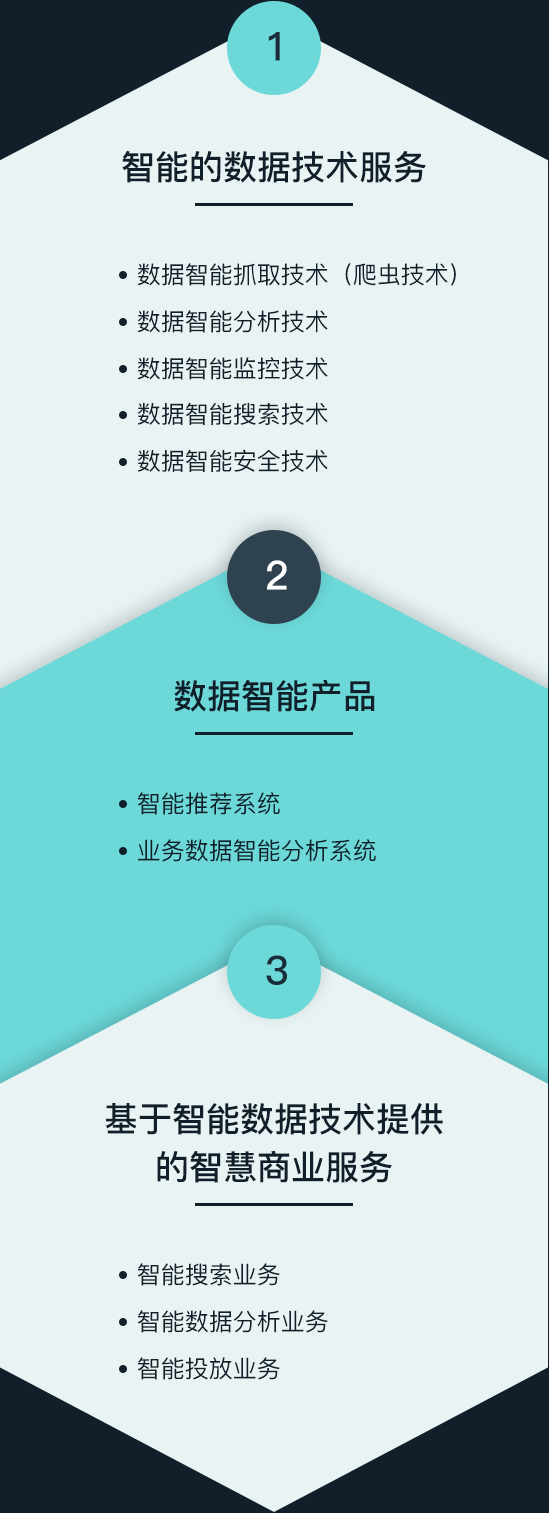
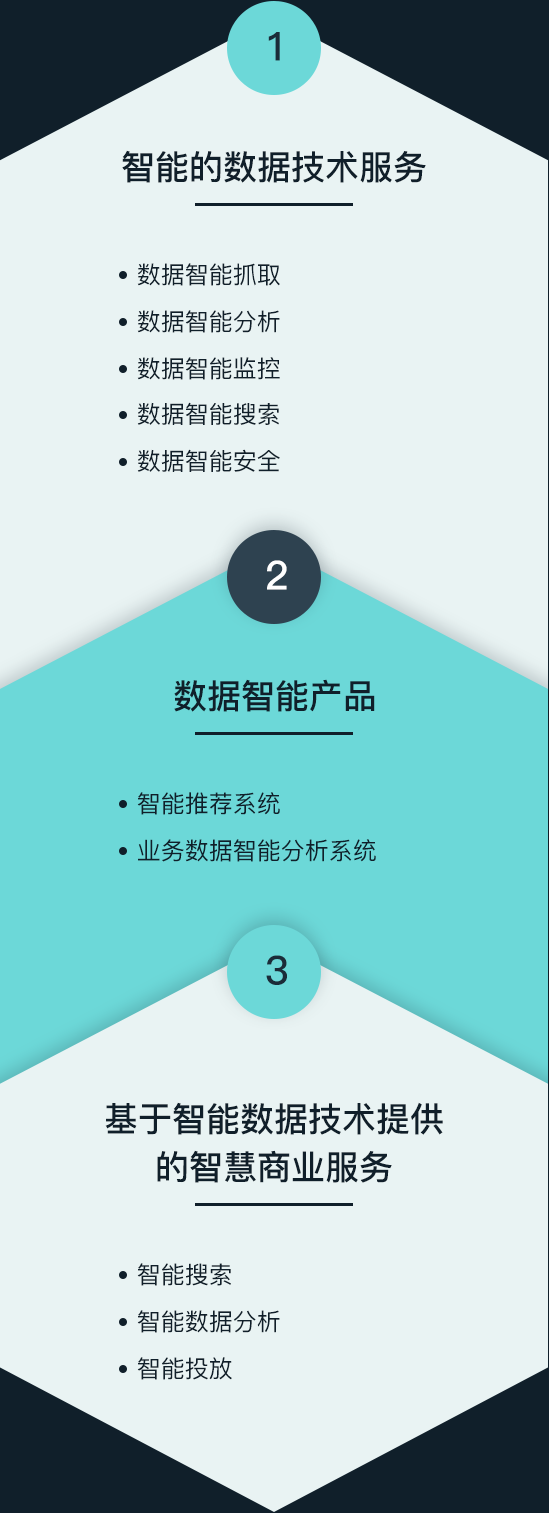
feat: 修改文案

diff --git a/index.html b/index.html
@@ -1,7 +1,7 @@
 <!--
  * @Date: 2019-09-26 11:24:02
  * @LastEditors: Pluto
- * @LastEditTime: 2019-09-28 14:28:32
+ * @LastEditTime: 2019-10-09 19:02:55
  -->
 <!DOCTYPE html>
 <html lang="en">
@@ -142,11 +142,11 @@
                             <div class="line"></div>
                             <div class="list">
                                 <ul>
-                                    <li>数据智能抓取技术(爬虫技术)</li>
-                                    <li>数据智能分析技术</li>
-                                    <li>数据智能监控技术</li>
-                                    <li>数据智能搜索技术</li>
-                                    <li>数据智能安全技术</li>
+                                    <li>数据智能抓取</li>
+                                    <li>数据智能分析</li>
+                                    <li>数据智能监控</li>
+                                    <li>数据智能搜索</li>
+                                    <li>数据智能安全</li>
                                 </ul>
                             </div>
                         </div>
@@ -171,9 +171,9 @@
                             <div class="line"></div>
                             <div class="list">
                                 <ul>
-                                    <li>智能搜索业务</li>
-                                    <li>智能数据分析业务</li>
-                                    <li>智能投放业务</li>
+                                    <li>智能搜索</li>
+                                    <li>智能数据分析</li>
+                                    <li>智能投放</li>
                                 </ul>
                             </div>
                         </div>
